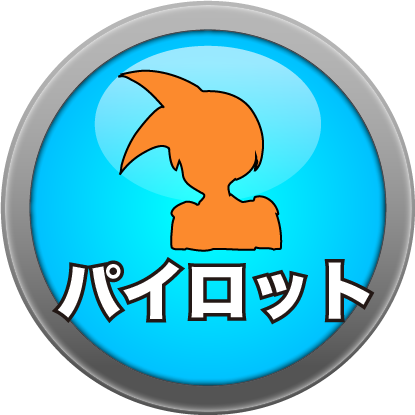
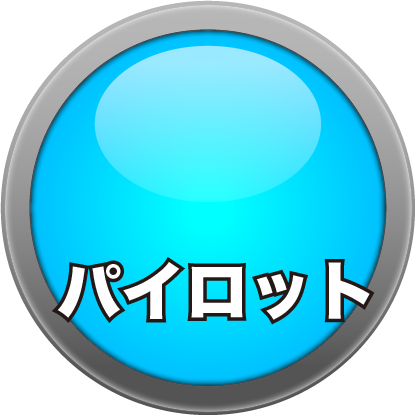
パイロットボタンにパイロット画像が表示されるようにした

Changed region(s): [[0.2892, 0.1446, 0.694, 0.6072]]

diff --git a/src/js/game-object/pilot-button/view/pilot-button-view.js b/src/js/game-object/pilot-button/view/pilot-button-view.js
@@ -11,6 +11,8 @@ import {ButtonOverlap} from "../../../overlap/button/button-overlap";
 import {circleButtonOverlap} from "../../../overlap/button/circle-button-overlap";
 import {Observable, Subject} from "rxjs";
 import type {GameObjectAction} from "../../../action/game-object-action";
+import type {PilotIcon} from "./pilot-icon";
+import {ShinyaIcon} from "./shinya";
 
 /** キャンバスサイズ */
 const CANVAS_SIZE = 512;
@@ -38,6 +40,7 @@ export class PilotButtonView {
   _pushButton: Subject<void>;
   _group: typeof THREE.Group;
   _button: SimpleImageMesh;
+  _pilotIcon: PilotIcon;
   _buttonDisabled: SimpleImageMesh;
   _overlap: ButtonOverlap;
 
@@ -62,9 +65,10 @@ export class PilotButtonView {
       meshSize: CANVAS_SIZE,
       image: buttonDisabled
     });
-    this._buttonDisabled.getObject3D().position.z = 1;
+    this._buttonDisabled.getObject3D().position.z = 2;
     this._group.add(this._buttonDisabled.getObject3D());
 
+    // TODO ?. ?? でスマートに書き直す
     const pilotButtonResource = resources.canvasImages.find(v => v.id === CANVAS_IMAGE_IDS.PILOT_BUTTON);
     const pilotButton: Image = pilotButtonResource
       ? pilotButtonResource.image
@@ -76,6 +80,11 @@ export class PilotButtonView {
     });
     this._group.add(this._button.getObject3D());
 
+    // TODO コンストラクタから受け取るようにする
+    this._pilotIcon = new ShinyaIcon(resources);
+    this._pilotIcon.getObject3D().position.z = 1;
+    this._group.add(this._pilotIcon.getObject3D());
+
     this._overlap = circleButtonOverlap({
       radius: 200,
       segments: 32,
@@ -84,7 +93,7 @@ export class PilotButtonView {
         this._pushButton.next();
       }
     });
-    this._overlap.getObject3D().position.z = 2;
+    this._overlap.getObject3D().position.z = 1;
     this._group.add(this._overlap.getObject3D());
   }
 
@@ -105,6 +114,7 @@ export class PilotButtonView {
    */
   engage(model: PilotButtonModel, preRender: PreRender): void {
     this._button.setOpacity(model.opacity);
+    this._pilotIcon.setOpacity(model.opacity);
 
     const disabledOpacity = model.canPilot ? 0 : model.opacity;
     this._buttonDisabled.setOpacity(disabledOpacity);

diff --git a/src/js/game-object/pilot-button/view/shinya.js b/src/js/game-object/pilot-button/view/shinya.js
@@ -1,0 +1,61 @@
+// @flow
+
+import * as THREE from 'three';
+import type {PilotIcon} from "./pilot-icon";
+import type {Resources} from "../../../resource";
+import {TEXTURE_IDS} from "../../../resource/texture";
+import {HorizontalAnimationMesh} from "../../../mesh/horizontal-animation";
+
+/**
+ * シンヤ パイロットアイコン
+ */
+export class ShinyaIcon implements PilotIcon {
+  _group: typeof THREE.Group;
+  _mesh: HorizontalAnimationMesh;
+
+  /**
+   * コンストラクタ
+   *
+   * @param resources リソース管理オブジェクト
+   */
+  constructor(resources: Resources) {
+    this._group = new THREE.Group();
+
+    const texture = resources.textures
+      .find(v => v.id === TEXTURE_IDS.SHINYA_CUTIN)
+      ?.texture ?? new THREE.Texture();
+    this._mesh = new HorizontalAnimationMesh({
+      texture: texture,
+      maxAnimation: 1,
+      width: 270,
+      height: 270,
+    });
+    this._mesh.getObject3D().position.y = 60;
+    this._group.add(this._mesh.getObject3D());
+  }
+
+  /**
+   * デストラクタ相当の処理
+   */
+  destructor(): void {
+    this._mesh.destructor();
+  }
+
+  /**
+   * シーンに追加するオブジェクトを取得する
+   *
+   * @return 取得結果
+   */
+  getObject3D(): typeof THREE.Object3D {
+    return this._group;
+  }
+
+  /**
+   * 透明度を設定する
+   *
+   * @param opacity 透明度
+   */
+  setOpacity(opacity: number): void {
+    this._mesh.setOpacity(opacity);
+  }
+}

diff --git a/src/js/game-object/pilot-button/view/pilot-icon.js b/src/js/game-object/pilot-button/view/pilot-icon.js
@@ -1,0 +1,27 @@
+// @flow
+
+import * as THREE from 'three';
+
+/**
+ * パイロットアイコン
+ */
+export interface PilotIcon {
+  /**
+   * デストラクタ相当の処理
+   */
+  destructor(): void;
+
+  /**
+   * シーンに追加するオブジェクトを取得する
+   *
+   * @return 取得結果
+   */
+  getObject3D(): typeof THREE.Object3D;
+
+  /**
+   * 透明度を設定する
+   *
+   * @param opacity 透明度
+   */
+  setOpacity(opacity: number): void;
+}
